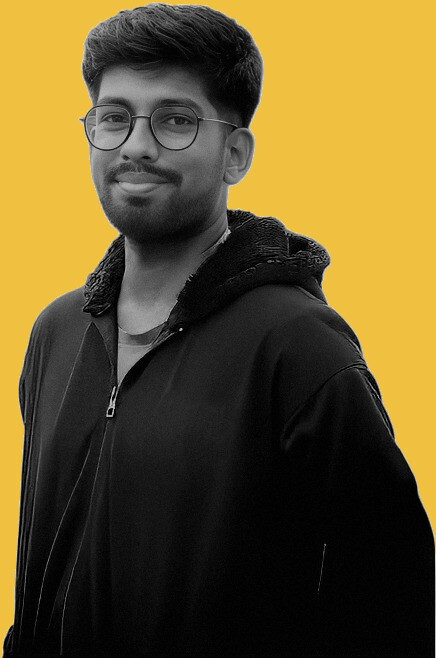
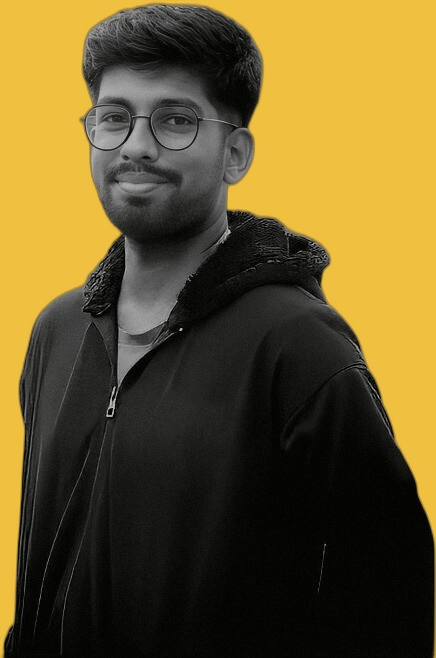
pics

diff --git a/src/components/Team/Team.css b/src/components/Team/Team.css
@@ -138,19 +138,28 @@
 }
 
 .poster-img {
+  --base-scale: 1;
+  --hover-scale: 1.05;
   width: 100%;
   height: 100%;
   object-fit: cover;
   object-position: center top;
   filter: grayscale(1) brightness(0.6) contrast(1.2);
-  transform: scale(1);
+  transform: scale(var(--base-scale));
   transition: filter 0.6s cubic-bezier(0.16, 1, 0.3, 1), transform 0.6s cubic-bezier(0.16, 1, 0.3, 1);
 }
 
 .character-poster:hover .poster-img {
   filter: grayscale(0) brightness(1) contrast(1.05);
-  transform: scale(1.05);
+  transform: scale(var(--hover-scale));
 }
+
+.img-vidya {
+  --base-scale: 1.3;
+  --hover-scale: 1.35;
+  object-position: center 30%;
+}
+
 
 /* Cinematic Vignette */
 .poster-vignette {

diff --git a/src/components/Films/Films.css b/src/components/Films/Films.css
@@ -214,13 +214,14 @@
   width: 100%;
   height: 100%;
   object-fit: cover;
-  object-position: center;
+  object-position: 65% center;
+  transform: scale(1.05);
   filter: brightness(0.5) saturate(0.9);
   transition: transform 0.6s ease, filter 0.6s ease;
 }
 
 .centered-banner-container:hover .feature-centered-banner {
-  transform: scale(1.03);
+  transform: scale(1.07);
   filter: brightness(0.65) saturate(1);
 }
 

diff --git a/src/components/Team/Team.tsx b/src/components/Team/Team.tsx
@@ -20,7 +20,7 @@ const CharacterPoster: React.FC<{
         <img
           src={member.image}
           alt={member.name}
-          className="poster-img"
+          className={`poster-img img-${member.id}`}
           loading="lazy"
         />
         <div className="poster-vignette" />
